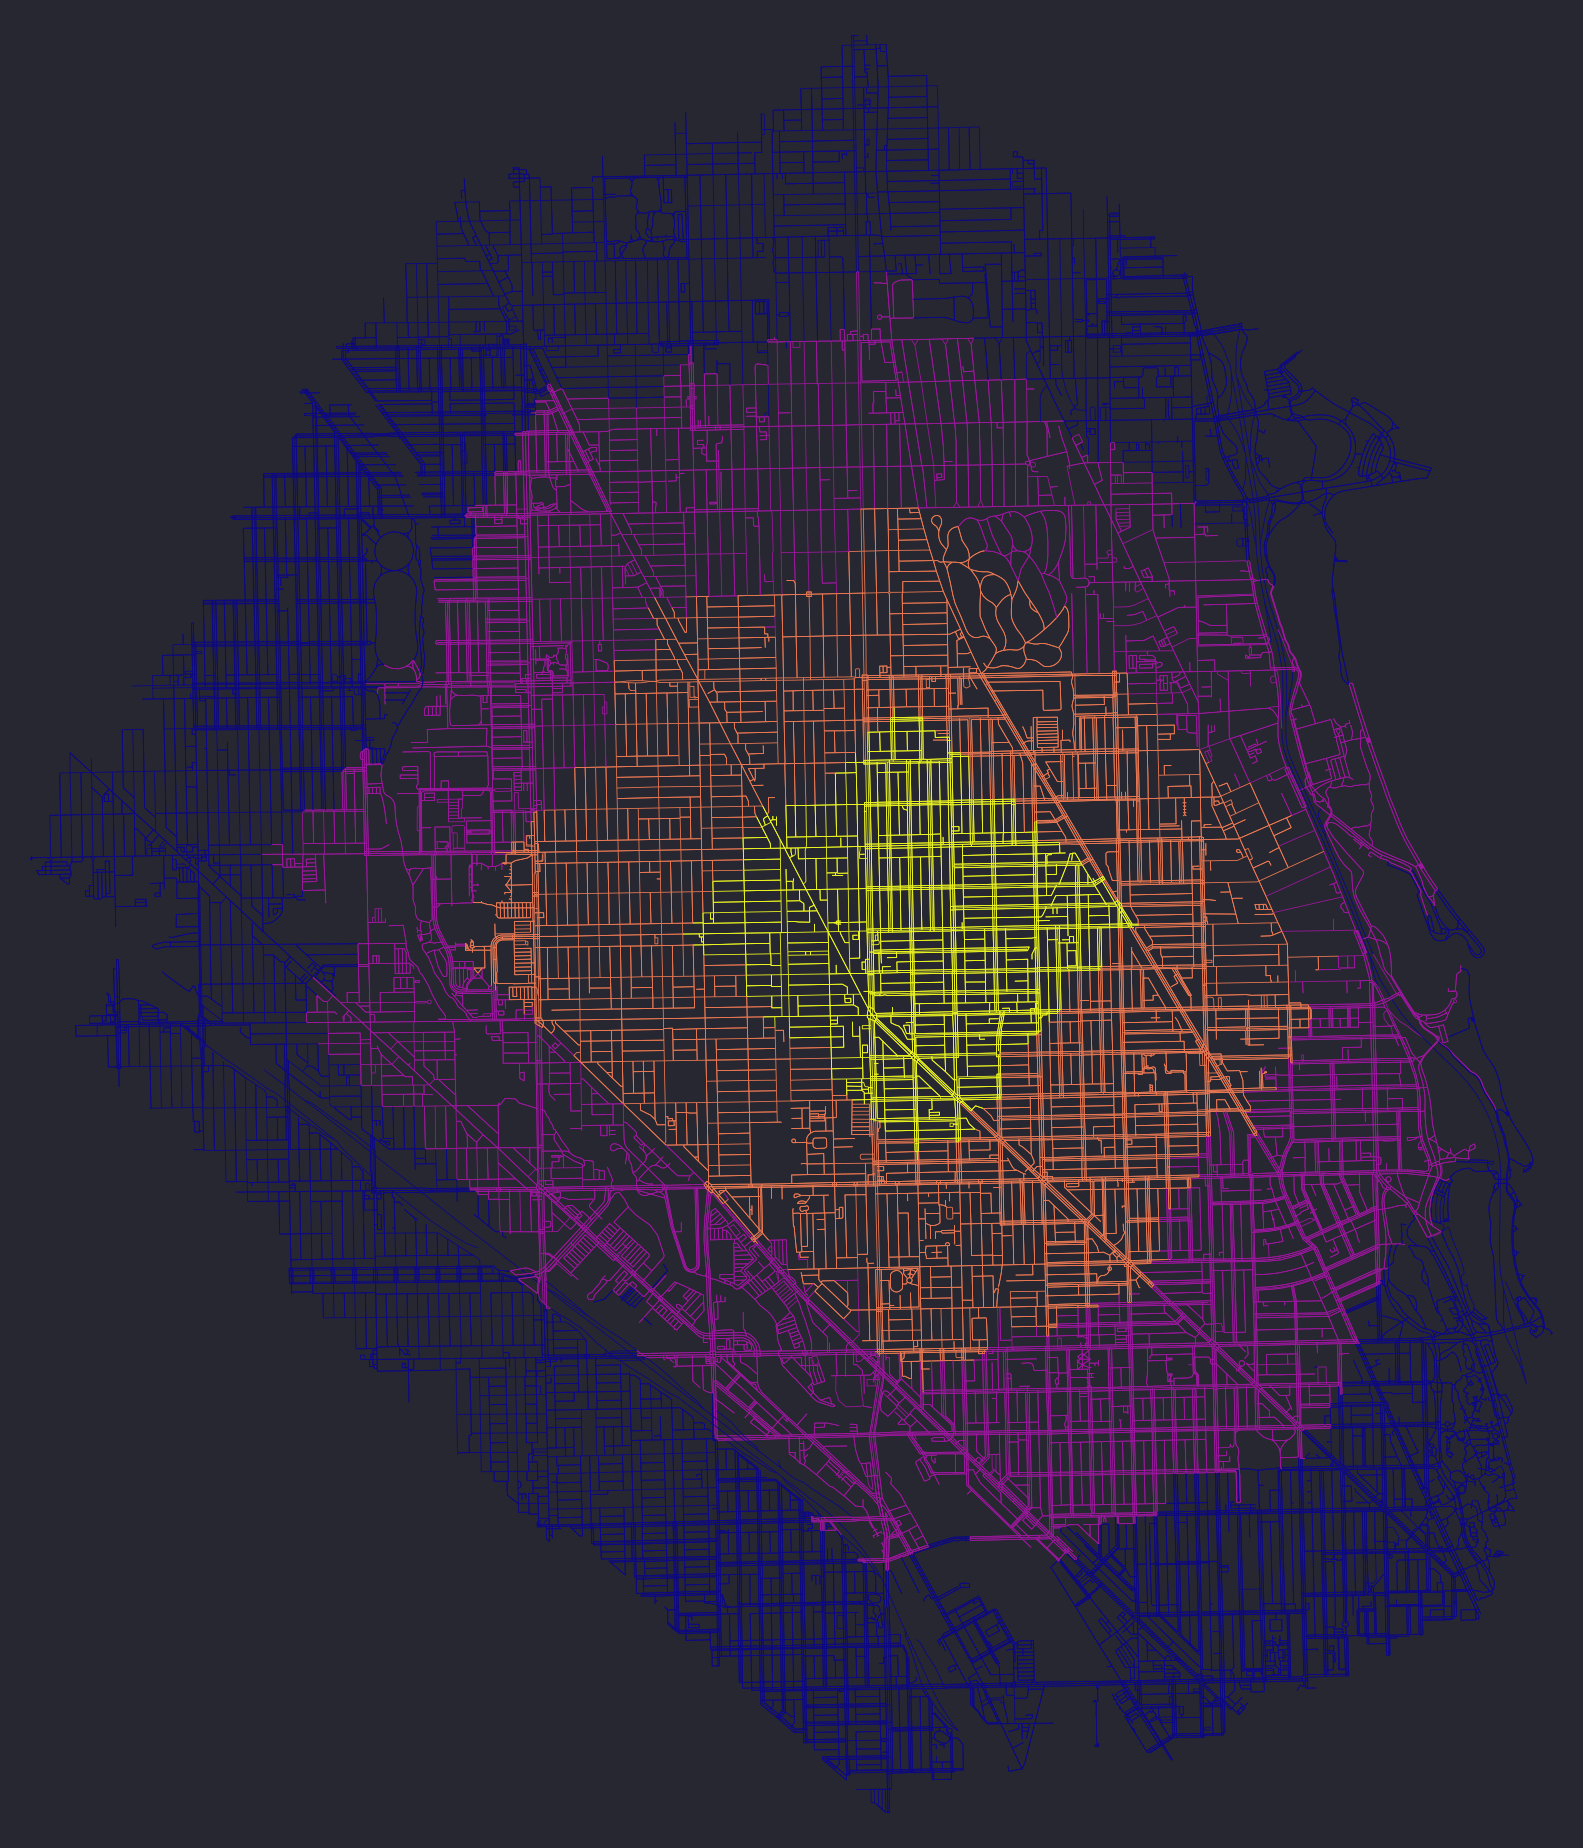
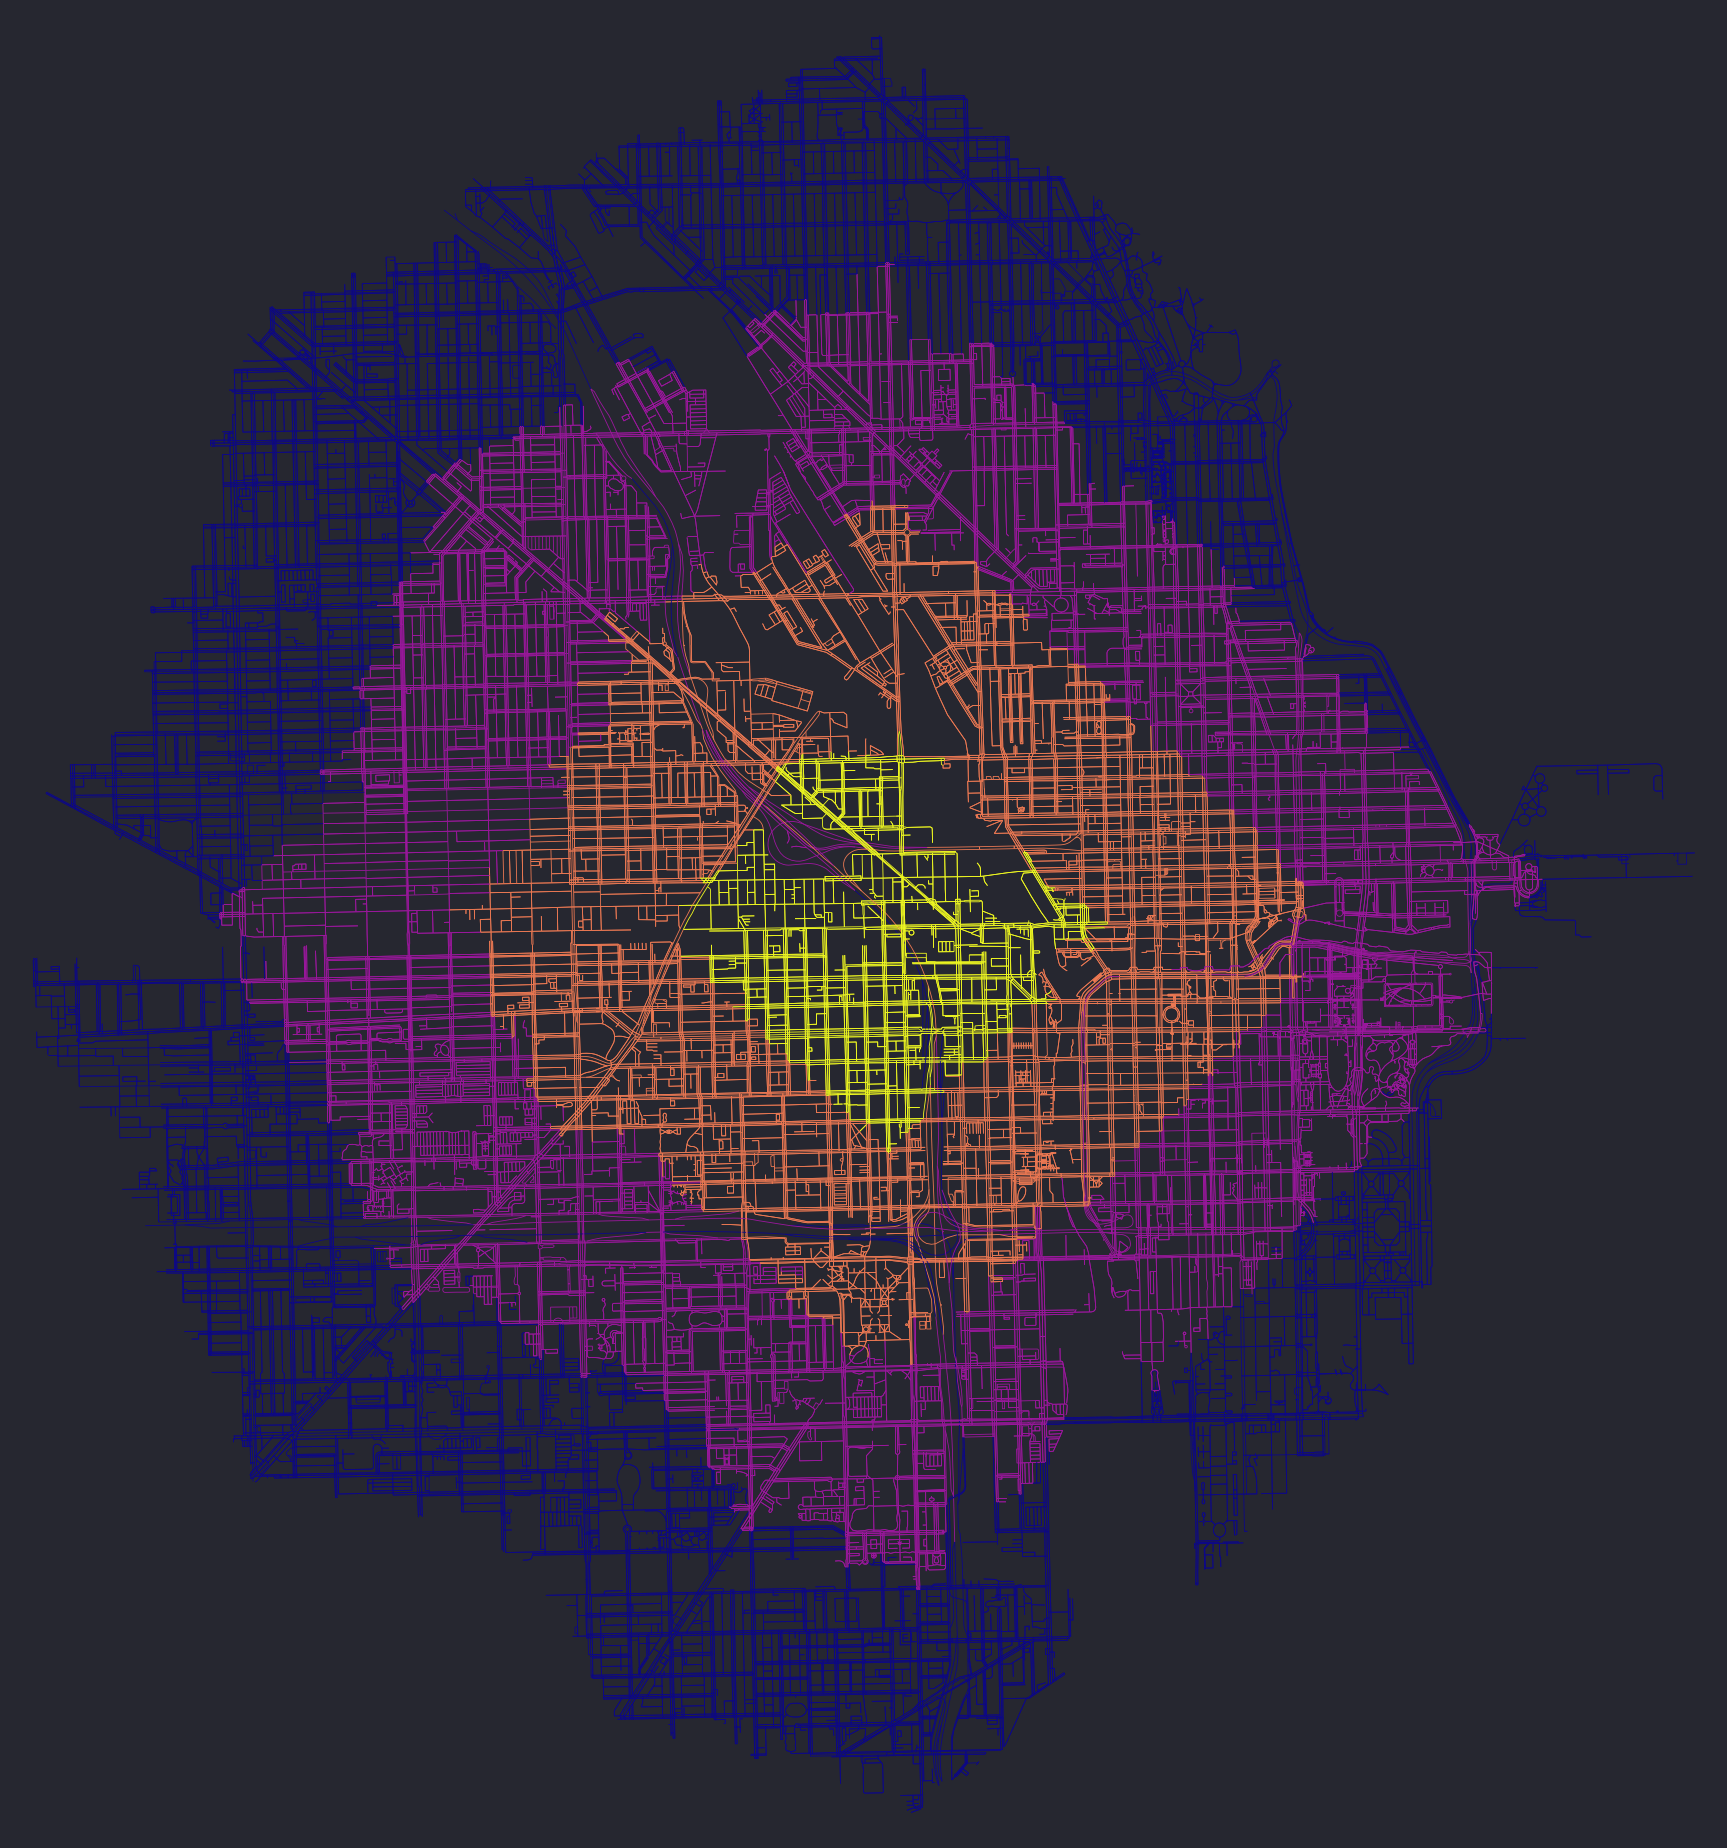
working dora decorator

diff --git a/src/logic.py b/src/logic.py
@@ -1,3 +1,4 @@
+from multiprocessing.sharedctypes import Value
 import osmnx as ox
 import networkx as nx
 import numpy as np
@@ -233,6 +234,42 @@ def average_wait_time(bus_times, people_times):
     return wait_times.mean()
 
 
+############################## Geocode Check ##############################
+
+def address_can_be_found(address):
+    """Ensure that if the address cannot be found the site fails gracefully"""
+    try:
+        _ = ox.geocoder.geocode(address)
+        return True
+    except ValueError:
+        # Nominatim could not geocode the query
+        return False
+
+
+def display_dora():
+    buffer = 0.25
+    _, col1, _, col2, _ = st.columns([buffer, 2, buffer, 5, buffer])
+    # col1.write("")
+    col1.image("img/dora_and_her_map.webp")
+    col2.text("Oh no!")
+    col2.text("""
+        I'm sorry. I couldn't find that location on my 
+        map. I got it for free from some nice people on 
+        the internet, but sometimes it's missing things!
+        Please try another address.
+        """)
+
+
+def geocode_check(make_isochrone_func):
+    def wrapper(*args):
+        address = args[0]
+        if address_can_be_found(address):
+            return make_isochrone_func(*args)
+        else:
+            display_dora()
+    return wrapper
+
+
 ############################### Walking Map ###############################
 
 def walking_address_input():
@@ -255,6 +292,7 @@ def walking_address_input():
     return address
 
 
+@geocode_check
 @st.experimental_memo()
 def make_walking_isochrone(address):
     """
@@ -274,15 +312,14 @@ def make_walking_isochrone(address):
     filepath = "plots/user_generated_walking_isochrone.png"
     walking_isochrone = WalkingIsochrone(citywide_graph=graph)
     _ = walking_isochrone.make_isochrone(lat_lng, filepath=filepath)
-
-    # street_address = address.split(",")[0]
-    # caption = f"Everywhere someone can walk in 15, 30, 45, and 60 minutes from {street_address}."
-    # st.image(filepath, caption=caption)
     st.session_state["walking_map_ready"] = True
+
 
 
 def address_is_in_chicago(address, chicago):
     lat_lon = ox.geocoder.geocode(address)
+    # lat_lon = geocode_gracefully(address)
+    # if lat_lon is not None:
     lat, lon = lat_lon[0], lat_lon[1]
     nearest_node = ox.distance.nearest_nodes(chicago, lon, lat)
     if not isinstance(nearest_node, int):
@@ -326,6 +363,7 @@ def transit_address_input():
     return address
 
 
+@geocode_check
 @st.experimental_memo
 def make_transit_isochrone(address):
     st.session_state["transit_map_ready"] = False

diff --git a/src/graphs.py b/src/graphs.py
@@ -24,7 +24,7 @@ def download_citywide_graph(city="Chicago, Illinois"):
 
     else:
         print("Downloading the citywide network graph")
-        network_type = "all"
+        network_type = "walk"
         citywide_graph = ox.graph_from_place(city,
             network_type=network_type,
             retain_all=False,
